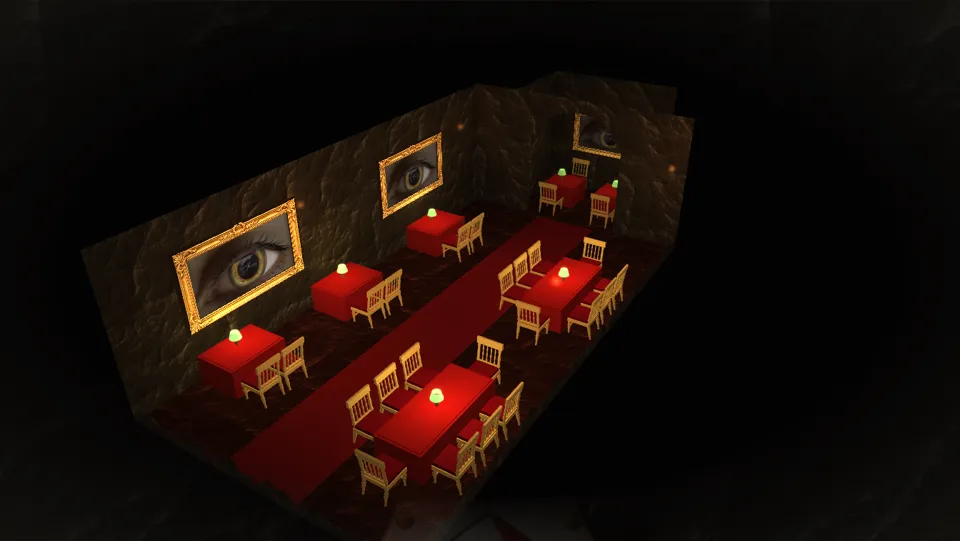
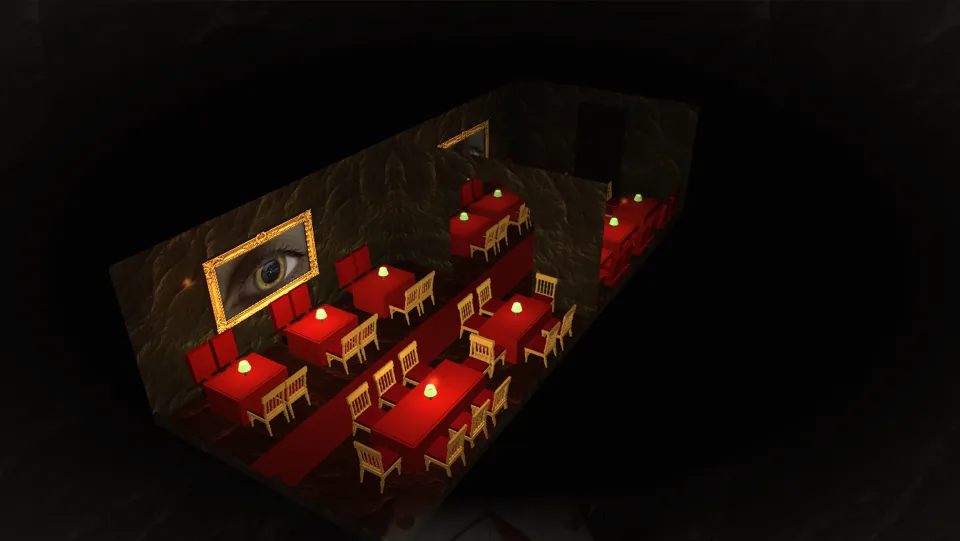
Grotte Napoléon : la salle 3D en deux parties séparées par une arcade de roche, rideau noir au fond, fauteuils de cinéma le long des murs
Claude-Session: https://claude.ai/code/session_01Tg9JuPFfiTJrQ2axzwAjp1

Changed region(s): [[0.125, 0.1479, 0.7188, 0.9168], [0.125, 0.6211, 0.1562, 0.6506]]

diff --git a/clients/la-grotte-napoleon/salle.js b/clients/la-grotte-napoleon/salle.js
@@ -75,26 +75,30 @@
     return forme(pos, uv, nor, idx);
   };
 
-  /* ---------- le plan de la salle (une unité ≈ 1,6 m) ---------- */
-  const X = 2.1, Z0 = -4, Z1 = 4, HM = 2.4, AX = 1.25, AZ = -5.7, ARC = .9, NAISS = 1.3;  /* galerie, renfoncement, arcade */
+  /* ---------- le plan de la salle (une unité ≈ 1,6 m), d'après les photos de l'utilisateur ----------
+     la salle d'entrée (ZA..ZE) et la salle du fond (ZF..ZA), séparées par un mur de roche percé d'une arcade ;
+     au fond, le rideau noir (la cuisine est derrière) */
+  const X = 2.0, ZE = 5.4, ZA = 0, ZF = -4.6, HM = 2.4, ARC = .82, NAISS = 1.25;
   const HT = .44;
   /* les écrans : [centre, normale, largeur de l'ouverture] ; l'ouverture du cadre est en 2/1 (moulures : 9,9 % sur les côtés, 14,8 % en haut et en bas) */
-  const ECRANS = [[[-X + .02, 1.3, 2.0], [1, 0, 0], 1.7], [[X - .02, 1.3, 2.0], [-1, 0, 0], 1.7], [[-X + .02, 1.3, -1.8], [1, 0, 0], 1.5], [[X - .02, 1.3, -1.8], [-1, 0, 0], 1.5], [[0, 1.25, AZ + .02], [0, 0, 1], 1.3]];
+  const ECRANS = [[[-X + .02, 1.3, 3.2], [1, 0, 0], 1.7], [[X - .02, 1.3, 3.2], [-1, 0, 0], 1.7], [[-X + .02, 1.3, -2.2], [1, 0, 0], 1.6], [[X - .02, 1.3, -2.2], [-1, 0, 0], 1.6]];
   const N = ECRANS.length, CG = .099, CH = .148;
-  /* les tables : [x, z, demi-largeur x, demi-longueur z, ovale ?] et leurs chaises [x, z, orientation du dossier] */
-  const TABLES = [[-X + .42, 2.6, .3, .42], [-X + .42, .5, .3, .42], [-X + .42, -1.9, .3, .42], [1.2, 2.2, .3, .75, 1], [1.2, -1.2, .3, .7, 1], [-.55, -4.9, .3, .3], [.55, -4.9, .3, .3]];
-  const CHAISES = [];
-  for (const [x, z, hx, hz, ov] of TABLES) {
-    if (z < Z0) { CHAISES.push([x, z + hz + .3, 0], [x, z - hz - .25, Math.PI]); continue; }   /* le renfoncement : une chaise devant, une derrière */
-    const n = Math.max(2, Math.round(hz * 2 / .52)), pas = hz * 2 / n;
+  /* les tables : [x, z, demi-largeur x, demi-longueur z, ovale ?, collée au mur ?] */
+  const TABLES = [[-X + .72, 4.4, .3, .4, 0, 1], [-X + .72, 2.9, .3, .4, 0, 1], [-X + .72, 1.4, .3, .4, 0, 1], [1.15, 3.5, .3, .8, 1, 0], [1.15, 1.2, .3, .55, 1, 0],
+    [-X + .72, -1.1, .3, .45, 0, 1], [-X + .72, -2.4, .3, .45, 0, 1], [-X + .72, -3.7, .3, .45, 0, 1], [X - .72, -1.1, .3, .45, 0, 1], [X - .72, -2.4, .3, .45, 0, 1], [X - .72, -3.7, .3, .45, 0, 1]];
+  /* les chaises dorées côté allée, et contre le mur une rangée de vieux fauteuils de cinéma rouges [x, z, côté du mur] */
+  const CHAISES = [], FAUTEUILS = [];
+  for (const [x, z, hx, hz, ov, mur] of TABLES) {
+    const n = Math.max(2, Math.round(hz * 2 / .52)), pas = hz * 2 / n, s = x < 0 ? 1 : -1;  /* s : vers l'allée */
     for (let k = 0; k < n; k++) { const zz = z - hz + pas * (k + .5);
-      if (x < 0) CHAISES.push([x + hx + .26, zz, Math.PI / 2]);                     /* côté allée */
-      else { CHAISES.push([x - hx - .26, zz, -Math.PI / 2]); if (ov) CHAISES.push([x + hx + .26, zz, Math.PI / 2]); } }
-    if (ov) CHAISES.push([x, z - hz - .26, Math.PI], [x, z + hz + .26, 0]);          /* les bouts des tables ovales */
+      CHAISES.push([x + s * (hx + .26), zz, s * Math.PI / 2]);
+      if (mur) FAUTEUILS.push([x - s * (hx + .2), zz, s]);
+      else if (ov) CHAISES.push([x - s * (hx + .26), zz, -s * Math.PI / 2]); }
+    if (ov) CHAISES.push([x, z - hz - .26, Math.PI], [x, z + hz + .26, 0]);
   }
-  /* les lumières : 5 écrans, une lampe par table, 4 appliques */
-  const LAMPES = TABLES.map(([x, z, hx, hz, ov]) => [x + (ov ? 0 : (x < 0 ? -.08 : 0)), z]);
-  const APPLIQUES = [[-X + .06, 1.75, .9], [X - .06, 1.75, .9], [-X + .06, 1.75, -3.3], [X - .06, 1.75, -3.3]];
+  /* les lumières : 4 écrans, une lampe par table, 4 appliques à côté des écrans */
+  const LAMPES = TABLES.map(([x, z]) => [x, z]);
+  const APPLIQUES = [[-X + .06, 1.75, 4.5], [X - .06, 1.75, 4.5], [-X + .06, 1.75, -.9], [X - .06, 1.75, -.9]];
   const NL = N + LAMPES.length + APPLIQUES.length;
 
   /* ---------- les shaders ---------- */
@@ -135,22 +139,30 @@
   /* ---------- les formes ---------- */
   const ecrans = ECRANS.map(([c, nrm, w]) => { const h = w / 2, wc = w / (1 - 2 * CG), hc = h / (1 - 2 * CH), dev = [c[0] + nrm[0] * .015, c[1], c[2] + nrm[2] * .015], der = [c[0] - nrm[0] * .012, c[1], c[2] - nrm[2] * .012];
     return { film: plan(c, nrm, w, h), cadre: plan(dev, nrm, wc, hc), dos: plan(der, nrm, wc, hc) }; });
-  const solPlat = (() => { const pos = [], uv = [], nor = [], idx = [];
-    for (const [x0, x1, z0, z1] of [[-X, X, Z0, Z1], [-AX, AX, AZ, Z0]]) { const b = pos.length / 3; pos.push(x0, 0, z0, x1, 0, z0, x0, 0, z1, x1, 0, z1); uv.push(0, 0, 1, 0, 0, 1, 1, 1); nor.push(0, 1, 0, 0, 1, 0, 0, 1, 0, 0, 1, 0); idx.push(b, b + 2, b + 1, b + 1, b + 2, b + 3); }
-    return forme(pos, uv, nor, idx); })();
-  const tapis = (() => { const pos = [-.62, .004, Z0 + .1, .55, .004, Z0 + .1, -.62, .004, Z1 - .1, .55, .004, Z1 - .1]; return forme(pos, [0, 0, 1, 0, 0, 1, 1, 1], [0, 1, 0, 0, 1, 0, 0, 1, 0, 0, 1, 0], [0, 2, 1, 1, 2, 3]); })();
-  /* les murs : côtés de la galerie, entrée, fond percé de l'arcade, renfoncement */
-  const M = [[-X, HM / 2, 0, 1, 0, Z1 - Z0, HM], [X, HM / 2, 0, -1, 0, Z1 - Z0, HM], [0, HM / 2, Z1, 0, -1, 2 * X, HM],
-    [(-X - ARC) / 2, HM / 2, Z0, 0, 1, X - ARC, HM], [(X + ARC) / 2, HM / 2, Z0, 0, 1, X - ARC, HM],
-    [-AX, HM / 2, (AZ + Z0) / 2, 1, 0, Z0 - AZ, HM], [AX, HM / 2, (AZ + Z0) / 2, -1, 0, Z0 - AZ, HM], [0, HM / 2, AZ, 0, 1, 2 * AX, HM]];
-  for (let k = 0; k < 18; k++) { const x0 = -ARC + 2 * ARC * k / 18, x1 = x0 + 2 * ARC / 18, xm = (x0 + x1) / 2, ya = NAISS + Math.sqrt(Math.max(0, ARC * ARC - xm * xm)) * .95;
-    M.push([xm, (ya + HM) / 2, Z0, 0, 1, x1 - x0 + .002, HM - ya]); }                         /* le haut de l'arcade, tranche par tranche */
+  const solPlat = (() => { const pos = [-X, 0, ZF, X, 0, ZF, -X, 0, ZE, X, 0, ZE]; return forme(pos, [0, 0, 1, 0, 0, 1, 1, 1], [0, 1, 0, 0, 1, 0, 0, 1, 0, 0, 1, 0], [0, 2, 1, 1, 2, 3]); })();
+  const tapis = (() => { const pos = [-.35, .004, ZF + .4, .35, .004, ZF + .4, -.35, .004, ZE - .1, .35, .004, ZE - .1]; return forme(pos, [0, 0, 1, 0, 0, 1, 1, 1], [0, 1, 0, 0, 1, 0, 0, 1, 0, 0, 1, 0], [0, 2, 1, 1, 2, 3]); })();
+  /* les murs : les deux côtés, l'entrée, le fond ; au milieu le mur de roche de l'arcade, une face vers chaque salle */
+  const M = [[-X, HM / 2, (ZE + ZF) / 2, 1, 0, ZE - ZF, HM], [X, HM / 2, (ZE + ZF) / 2, -1, 0, ZE - ZF, HM], [0, HM / 2, ZE, 0, -1, 2 * X, HM], [0, HM / 2, ZF, 0, 1, 2 * X, HM]];
+  for (const f of [1, -1]) {
+    const z = ZA + f * .06;
+    M.push([(-X - ARC) / 2, HM / 2, z, 0, f, X - ARC, HM], [(X + ARC) / 2, HM / 2, z, 0, f, X - ARC, HM]);
+    for (let k = 0; k < 18; k++) { const x0 = -ARC + 2 * ARC * k / 18, x1 = x0 + 2 * ARC / 18, xm = (x0 + x1) / 2, ya = NAISS + Math.sqrt(Math.max(0, ARC * ARC - xm * xm)) * .95 + .05 * Math.sin(xm * 13);
+      M.push([xm, (ya + HM) / 2, z, 0, f, x1 - x0 + .002, HM - ya]); }                       /* le haut de l'arcade, irrégulier comme la roche */
+  }
   const parois = murs(M);
-  const rideau = murs([[X - .03, 1.05, -3.2, -1, 0, 1.3, 2.1]]);
-  /* les tables : la nappe (dessus et pans), une lampe à abat-jour vert ; les ovales en tronc de cône aplati */
+  const rideau = murs([[0, 1.05, ZF + .03, 0, 1, 1.1, 2.1]]);
+  /* les tables : la nappe (dessus et pans) */
   const tables = (() => { const L = [];
     for (const [x, z, hx, hz] of TABLES) L.push([x, HT - .01, z, hx, .012, hz, 0], [x, HT / 2, z, hx + .03, HT / 2 - .01, hz + .03, 0]);
     return paves(L); })();
+  /* les fauteuils de cinéma : assise, dossier haut et arrondi en velours rouge, accoudoirs et pied sombres */
+  const FV = [], FS = [];
+  for (const [x, z, s] of FAUTEUILS) { const a = s > 0 ? Math.PI / 2 : -Math.PI / 2;   /* le dossier vers le mur */
+    FV.push([x, .27, z, .15, .05, .2, a], [x - s * .14, .5, z, .17, .25, .045, a, -.12]);
+    FS.push([x, .11, z, .1, .11, .12, a]);
+    for (const dz of [-.21, .21]) FS.push([x - s * .02, .33, z + dz, .15, .015, .018, a]);
+  }
+  const fauteuils = paves(FV), fauteuilsPied = paves(FS);
   const lampes = LAMPES.map(([x, z]) => [tronc(.022, .018, HT, HT + .12, 8, x, z), tronc(.085, .055, HT + .11, HT + .21, 16, x, z)]);
   /* les chaises « Napoléon » (d'après la photo envoyée par l'utilisateur) : tout le bâti doré, pieds et barreaux tournés
      avec leurs bagues, pieds arrière qui partent en arrière, dossier à quatre barreaux sous un bandeau, assise de velours rouge.
@@ -183,7 +195,7 @@
     pave(ASSISE, 0, .277, -.008, .168, .028, .158);
   }
   const chaises = tournees(TOURS), dorures = paves(DORE), velours = paves(ASSISE);
-  const poussiere = tampon(new Float32Array([...Array(300)].flatMap(() => [(Math.random() * 2 - 1) * (X - .2), .3 + Math.random() * 1.6, AZ + .3 + Math.random() * (Z1 - AZ - .6)])));
+  const poussiere = tampon(new Float32Array([...Array(320)].flatMap(() => [(Math.random() * 2 - 1) * (X - .2), .3 + Math.random() * 1.6, ZF + .3 + Math.random() * (ZE - ZF - .6)])));
   const point = tampon(new Float32Array([0, 0, 0]));
 
   /* ---------- les textures ---------- */
@@ -219,7 +231,7 @@
     else gl.drawArrays(gl.POINTS, 0, g.n);
   };
   const VIDE = { tex: 0, coupe: 0, brille: 0, dos: 0, orne: 0 };
-  const CENTRE = [0, .5, -.7];
+  const CENTRE = [0, .5, .4];
   let theta = .5, vitesse = 0, actif = false, enCours = false, dernier = 0, t = 0;
   const taille = () => {
     const dpr = Math.min(devicePixelRatio || 1, innerWidth < 760 ? 1.5 : 2), r = boite.getBoundingClientRect();
@@ -233,7 +245,7 @@
     theta += (.05 + vitesse) * dt; vitesse *= Math.pow(.02, dt);
     const dpr = taille(), portrait = toile.width / toile.height < 1;
     /* la galerie est longue : la caméra s'éloigne quand elle la voit de côté, se rapproche quand elle la voit dans l'axe */
-    const loin = (portrait ? 7.4 : 8.6) + Math.abs(Math.sin(theta)) * (portrait ? .6 : 1.6), h = loin * .62 + Math.sin(t * .23) * .12;
+    const loin = (portrait ? 8.2 : 9.2) + Math.abs(Math.sin(theta)) * (portrait ? .8 : 2.0), h = loin * .62 + Math.sin(t * .23) * .12;
     const oeil = [CENTRE[0] + Math.sin(theta) * loin, h, CENTRE[2] + Math.cos(theta) * loin], V = regarde(oeil, CENTRE);
     if (source) { gl.bindTexture(gl.TEXTURE_2D, texFilm); gl.texImage2D(gl.TEXTURE_2D, 0, gl.RGB, gl.RGB, gl.UNSIGNED_BYTE, source); if (compte++ % 6 === 0) mesure(); }
     teinte = teinte.map((v, k) => v + (cible[k] - v) * Math.min(1, dt * 4));
@@ -248,8 +260,8 @@
     lum(solPlat, [1.1, .42, .34], { tex: 1 });
     lum(tapis, [.42, .05, .05]);
     lum(parois, [1.25, 1.05, .85], { tex: 1, coupe: 1, brille: .1 });
-    lum(rideau, [.45, .03, .04], { coupe: 1 });
-    lum(tables, [.7, .08, .07]);
+    lum(rideau, [.07, .06, .06], { coupe: 1 });
+    lum(tables, [.7, .08, .07]); lum(fauteuils, [.62, .05, .05]); lum(fauteuilsPied, [.12, .08, .06]);
     for (const [tige, abat] of lampes) { lum(tige, [.6, .5, .3]); lum(abat, [.55, .85, .45], { brille: .9 }); }
     lum(chaises, [.88, .68, .32], { brille: .14 }); lum(dorures, [.88, .68, .32], { brille: .14 }); lum(velours, [.5, .04, .07]);
     ecrans.forEach((e, i) => { const [c, nrm] = ECRANS[i]; if (nrm[0] * (oeil[0] - c[0]) + nrm[2] * (oeil[2] - c[2]) < 0) return; /* le mur est abaissé de ce côté : son écran disparaît avec lui */

diff --git a/clients/la-grotte-napoleon/produit.html b/clients/la-grotte-napoleon/produit.html
@@ -8,7 +8,7 @@
 <meta name="robots" content="noindex">
 <meta name="theme-color" content="#161411">
 <link rel="icon" href="images/couronne.png">
-<link rel="stylesheet" href="grotte.css?v=20261101w">
+<link rel="stylesheet" href="grotte.css?v=20261101x">
 </head>
 <body data-titre="meta-produit">
 <div class="maquette" data-t="bandeau">Maquette préparée par Saitora pour La Grotte Napoléon : à valider ensemble avant la mise en ligne.</div>
@@ -89,8 +89,8 @@
   <a href="./#venir" data-t="barre-plan">Plan</a>
 </div>
 
-<script src="produits.js?v=20261101w"></script>
-<script src="textes.js?v=20261101w"></script>
-<script src="grotte.js?v=20261101w"></script>
+<script src="produits.js?v=20261101x"></script>
+<script src="textes.js?v=20261101x"></script>
+<script src="grotte.js?v=20261101x"></script>
 </body>
 </html>

diff --git a/clients/la-grotte-napoleon/panier.html b/clients/la-grotte-napoleon/panier.html
@@ -8,7 +8,7 @@
 <meta name="robots" content="noindex">
 <meta name="theme-color" content="#161411">
 <link rel="icon" href="images/couronne.png">
-<link rel="stylesheet" href="grotte.css?v=20261101w">
+<link rel="stylesheet" href="grotte.css?v=20261101x">
 </head>
 <body data-titre="meta-panier">
 <div class="maquette" data-t="bandeau">Maquette préparée par Saitora pour La Grotte Napoléon : à valider ensemble avant la mise en ligne.</div>
@@ -79,8 +79,8 @@
   <a href="./#venir" data-t="barre-plan">Plan</a>
 </div>
 
-<script src="produits.js?v=20261101w"></script>
-<script src="textes.js?v=20261101w"></script>
-<script src="grotte.js?v=20261101w"></script>
+<script src="produits.js?v=20261101x"></script>
+<script src="textes.js?v=20261101x"></script>
+<script src="grotte.js?v=20261101x"></script>
 </body>
 </html>

diff --git a/clients/la-grotte-napoleon/boutique.html b/clients/la-grotte-napoleon/boutique.html
@@ -8,7 +8,7 @@
 <meta name="robots" content="noindex">
 <meta name="theme-color" content="#161411">
 <link rel="icon" href="images/couronne.png">
-<link rel="stylesheet" href="grotte.css?v=20261101w">
+<link rel="stylesheet" href="grotte.css?v=20261101x">
 </head>
 <body class="btq" data-titre="meta-boutique">
 <div class="maquette" data-t="bandeau">Maquette préparée par Saitora pour La Grotte Napoléon : à valider ensemble avant la mise en ligne.</div>
@@ -270,8 +270,8 @@
 </div>
 
 
-<script src="produits.js?v=20261101w"></script>
-<script src="textes.js?v=20261101w"></script>
-<script src="grotte.js?v=20261101w"></script>
+<script src="produits.js?v=20261101x"></script>
+<script src="textes.js?v=20261101x"></script>
+<script src="grotte.js?v=20261101x"></script>
 </body>
 </html>

diff --git a/clients/la-grotte-napoleon/reserver.html b/clients/la-grotte-napoleon/reserver.html
@@ -8,7 +8,7 @@
 <meta name="robots" content="noindex">
 <meta name="theme-color" content="#161411">
 <link rel="icon" href="images/couronne.png">
-<link rel="stylesheet" href="grotte.css?v=20261101w">
+<link rel="stylesheet" href="grotte.css?v=20261101x">
 </head>
 <body data-titre="meta-reserver">
 <div class="maquette" data-t="bandeau">Maquette préparée par Saitora pour La Grotte Napoléon : à valider ensemble avant la mise en ligne.</div>
@@ -93,7 +93,7 @@
   <a href="./#venir" data-t="barre-plan">Plan</a>
 </div>
 
-<script src="textes.js?v=20261101w"></script>
-<script src="grotte.js?v=20261101w"></script>
+<script src="textes.js?v=20261101x"></script>
+<script src="grotte.js?v=20261101x"></script>
 </body>
 </html>

diff --git a/clients/la-grotte-napoleon/formules.html b/clients/la-grotte-napoleon/formules.html
@@ -8,7 +8,7 @@
 <meta name="robots" content="noindex">
 <meta name="theme-color" content="#161411">
 <link rel="icon" href="images/couronne.png">
-<link rel="stylesheet" href="grotte.css?v=20261101w">
+<link rel="stylesheet" href="grotte.css?v=20261101x">
 </head>
 <body data-titre="meta-formules">
 <div class="maquette" data-t="bandeau">Maquette préparée par Saitora pour La Grotte Napoléon : à valider ensemble avant la mise en ligne.</div>
@@ -146,7 +146,7 @@
 </div>
 
 
-<script src="textes.js?v=20261101w"></script>
-<script src="grotte.js?v=20261101w"></script>
+<script src="textes.js?v=20261101x"></script>
+<script src="grotte.js?v=20261101x"></script>
 </body>
 </html>

diff --git a/clients/la-grotte-napoleon/index.html b/clients/la-grotte-napoleon/index.html
@@ -8,7 +8,7 @@
 <meta name="robots" content="noindex">
 <meta name="theme-color" content="#161411">
 <link rel="icon" href="images/couronne.png">
-<link rel="stylesheet" href="grotte.css?v=20261101w">
+<link rel="stylesheet" href="grotte.css?v=20261101x">
 </head>
 <body data-titre="meta-titre">
 <div class="maquette" data-t="bandeau">Maquette préparée par Saitora pour La Grotte Napoléon : à valider ensemble avant la mise en ligne.</div>
@@ -204,7 +204,7 @@
 </div>
 
 
-<script src="textes.js?v=20261101w"></script>
-<script src="grotte.js?v=20261101w"></script>
+<script src="textes.js?v=20261101x"></script>
+<script src="grotte.js?v=20261101x"></script>
 </body>
 </html>

diff --git a/clients/la-grotte-napoleon/NOTES.md b/clients/la-grotte-napoleon/NOTES.md
@@ -67,3 +67,4 @@ Tout ce qui a été fait, décidé ou refusé sur ce site (repris de `ETAT.md` l
 - **Chaises Empire (1er novembre 2026, demande de l’utilisateur)** : les seize chaises de la salle 3D sont refaites en style Empire : bâti d’acajou, pieds avant droits, pieds arrière en sabre, dossier incliné avec bandeau, applique dorée et deux pommeaux dorés, traverse basse, assise de velours vert bordée d’un galon d’or (trois formes : bois, velours, dorures ; `paves` accepte une inclinaison). Les tables sont un peu écartées pour que les chaises de tables voisines ne se touchent plus. Image de secours refaite.
 - **Chaises « Napoléon » (1er novembre 2026, d’après une photo envoyée par l’utilisateur)** : les chaises Empire en acajou sont remplacées par le modèle de la photo : bâti entièrement doré, pieds avant et montants tournés avec leurs bagues (profils tournés autour de leur axe, fonction `tournees` dans `salle.js`), pieds arrière qui partent en arrière, quatre barreaux tournés au dossier sous un bandeau, traverse tournée entre les pieds avant, assise de velours rouge. Construites directement en 3D (pas d’image ChatGPT ni de modèle téléchargé).
 - **La salle 3D refaite d’après la vraie (1er novembre 2026, photo de l’utilisateur ; « c’est pas en rond », « au fond il y a une arcade et derrière une télé »)** : `salle.js` montre maintenant une longue galerie de roche (environ 4,2 × 8 unités) au sol rouge avec un chemin de tapis ; deux écrans à cadre doré sur chaque mur de côté (écrans plats, ouverture 2/1) ; au fond, un mur percé d’une arcade qui ouvre sur un renfoncement avec le cinquième écran ; trois tables à nappe rouge le long du mur gauche (chaises côté allée), deux longues tables à droite (chaises des deux côtés et aux bouts), deux petites tables dans le renfoncement ; lampes à abat-jour vert, quatre appliques à bougies, rideau rouge au fond à droite. Les murs entre la caméra et la salle s’abaissent (avec leurs écrans) pour voir dedans ; la caméra tourne autour en s’éloignant quand elle voit la galerie de côté. Proportions et nombre de tables à ajuster quand l’utilisateur aura d’autres photos.
+- **La salle 3D en deux parties (1er novembre 2026, deux photos de l’utilisateur)** : salle d’entrée (tables carrées le long du mur gauche, deux longues tables ovales à droite, un écran à cadre doré sur chaque mur) ; au milieu un mur de roche percé d’une arcade au haut irrégulier (deux faces) ; salle du fond (un écran sur chaque mur, tables collées aux deux murs, rideau noir au fond, la cuisine est derrière). Les tables collées au mur ont côté mur une rangée de vieux fauteuils de cinéma rouges (assise, haut dossier incliné, accoudoirs et pied sombres), et des chaises Napoléon dorées côté allée. Quatre écrans (deux par salle) ; depuis l’entrée, celui du fond à droite est caché par l’arcade, comme en vrai. Appliques à côté des écrans.
